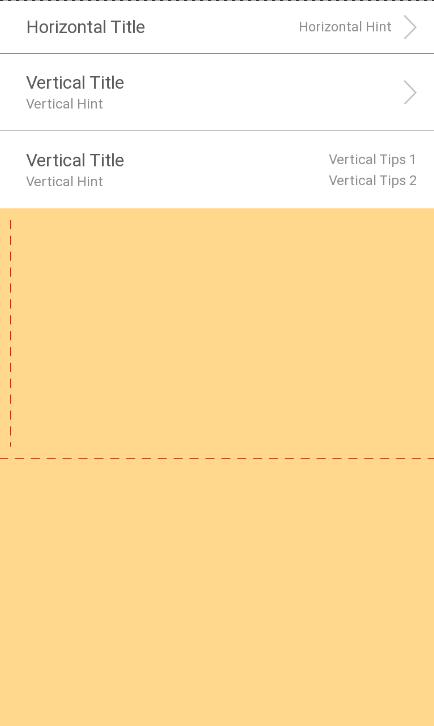
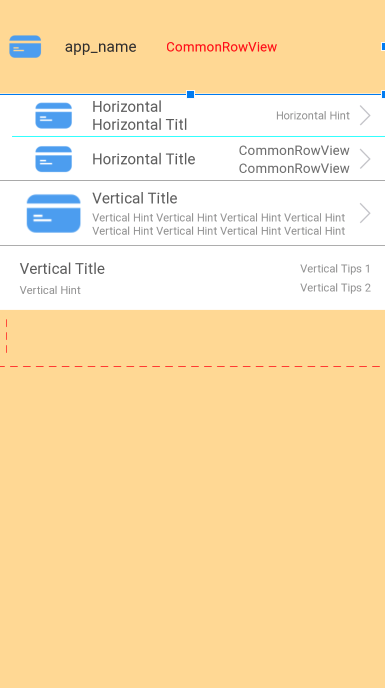
[MDF]完善AbstractRowView属性

diff --git a/library/src/main/java/com/cabe/lib/ui/rowview/AbstractRowView.java b/library/src/main/java/com/cabe/lib/ui/rowview/AbstractRowView.java
@@ -13,6 +13,7 @@ import android.util.AttributeSet;
 import android.util.TypedValue;
 import android.view.LayoutInflater;
 import android.view.View;
+import android.view.ViewGroup;
 import android.widget.ImageView;
 import android.widget.RelativeLayout;
 import android.widget.TextView;
@@ -106,6 +107,22 @@ public abstract class AbstractRowView extends RelativeLayout {
             setTitle(a.getText(R.styleable.LayoutRowViewNormal_rv_title));
         } else {
             setTitle("");
+        }
+
+        if(a.hasValue(R.styleable.LayoutRowViewNormal_rv_titleFixedWidth)) {
+            int fixedWidth = (int) a.getDimension(R.styleable.LayoutRowViewNormal_rv_titleFixedWidth, ViewGroup.LayoutParams.WRAP_CONTENT);
+            setTitleWidth(fixedWidth);
+        } else {
+            setTitleWidth(ViewGroup.LayoutParams.WRAP_CONTENT);
+        }
+        if(a.hasValue(R.styleable.LayoutRowViewNormal_rv_titleMaxLines)) {
+            int maxLines = a.getInt(R.styleable.LayoutRowViewNormal_rv_titleMaxLines, 1);
+            setTitleMaxLines(maxLines);
+        }
+        if(a.hasValue(R.styleable.LayoutRowViewNormal_rv_titleEllipsize)) {
+            int val = a.getInt(R.styleable.LayoutRowViewNormal_rv_titleEllipsize, 3);
+            Ellipsize ellipsize = Ellipsize.create(val);
+            setTitleEllipsize(ellipsize);
         }
 
         setHint(0);
@@ -264,6 +281,39 @@ public abstract class AbstractRowView extends RelativeLayout {
         if(rvTitle == null) return;
 
         rvTitle.setTextColor(color);
+    }
+
+    public void setTitleWidth(int width) {
+        if(rvTitle == null) return;
+
+        ViewGroup.LayoutParams params = rvTitle.getLayoutParams();
+        params.width = width;
+        rvTitle.setLayoutParams(params);
+    }
+
+    public void setTitleMaxLines(int maxLines) {
+        if(rvTitle == null || maxLines <= 0) return;
+
+        rvTitle.setSingleLine(false);
+        rvTitle.setMaxLines(maxLines);
+    }
+
+    public void setTitleEllipsize(Ellipsize ellipsize) {
+        if(rvTitle == null || ellipsize == null) return;
+
+        TextUtils.TruncateAt truncateAt;
+        switch (ellipsize) {
+            case Start:
+                truncateAt = TextUtils.TruncateAt.START;
+                break;
+            case Middle:
+                truncateAt = TextUtils.TruncateAt.MIDDLE;
+                break;
+            default:
+                truncateAt = TextUtils.TruncateAt.END;
+                break;
+        }
+        rvTitle.setEllipsize(truncateAt);
     }
 
     public void setHintSize(int unit, float size) {

diff --git a/README.md b/README.md
@@ -9,7 +9,7 @@ dependencies {
 
 ### Usage
 
-<img src="./resource/screen_shot.png"  width="400" height="127"/>
+<img src="./resource/screen_shot.png"  width="300" height="580"/>
 
 #### HorizontalRowView
 
@@ -19,13 +19,19 @@ dependencies {
     <com.cabe.lib.ui.rowview.HorizontalRowView
         android:id="@+id/frag_me_row_bank_h"
         style="@style/RowViewStyle"
-        xmlns:app="http://schemas.android.com/apk/res-auto"
-        app:rv_title="title"
+        app:rv_title="Horizontal Horizontal Title"
         app:rv_titleDrawablePadding="5dp"
-        app:rv_titleDrawable="@drawable/icon_row"
+        app:rv_titleDrawable="@drawable/rp_icon_me_card"
         app:rv_showHint="true"
-        app:rv_hintTips="hint"
-        android:tag="tag"
+        app:rv_hintTips="Horizontal Hint"
+        app:rv_showDivider="true"
+        app:rv_dividerMarginLeft="16dp"
+        app:rv_dividerSize="1dp"
+        app:rv_dividerColor="#00FFFF"
+        app:rv_titleFixedWidth="100dp"
+        app:rv_titleMaxLines="2"
+        app:rv_titleEllipsize="End"
+        android:tag="Horizontal Tag"
         android:onClick="onClick" />
 
 ```
@@ -83,5 +89,40 @@ dependencies {
         app:gl_dashColor="#FF0000"
         app:gl_gapWidth="6dp"
         app:gl_gapColor="#0000FF00" />
+
+```
+
+
+#### TitleLabelLayout
+``` xml
+
+    <com.cabe.lib.ui.label.TitleLabelLayout
+        android:layout_width="match_parent"
+        android:layout_height="100dp"
+        android:paddingLeft="10dp"
+        android:paddingRight="10dp"
+        android:gravity="center_vertical"
+        app:tl_title="app_nameapp_namenapp_nasdfsdffsdmeasdf"
+        app:tl_titleColor="#333333"
+        app:tl_titleSize="16dp"
+        app:tl_titlePadding="20dp"
+        app:tl_titleMaxLines="2"
+        app:tl_titleEllipsize="End"
+        app:tl_titleFixedWidth="140dp"
+        app:tl_titleGravity="Center"
+        app:tl_titleLayoutGravity="Center"
+        app:tl_titleDrawable="@drawable/rp_icon_me_card"
+        app:tl_titleDrawableWidth="40dp"
+        app:tl_titleDrawableHeight="40dp"
+        app:tl_titleDrawablePadding="10dp"
+        app:tl_titleDrawableGravity="Center" >
+
+        <TextView
+            android:layout_width="match_parent"
+            android:layout_height="wrap_content"
+            android:text="@string/app_name"
+            android:textColor="#FF0000" />
+
+    </com.cabe.lib.ui.label.TitleLabelLayout>
 
 ```

diff --git a/CHANGE_LOG.md b/CHANGE_LOG.md
@@ -1,8 +1,9 @@
 change log
 ==========
-v1.5.0 2020-04-02
+v1.5.2 2020-04-02
 -----------------
 1、新增TitleLabelLayout控件
+2、完善AbstractRowView属性
 
 v1.2.3  2016-12-10
 ------------------
